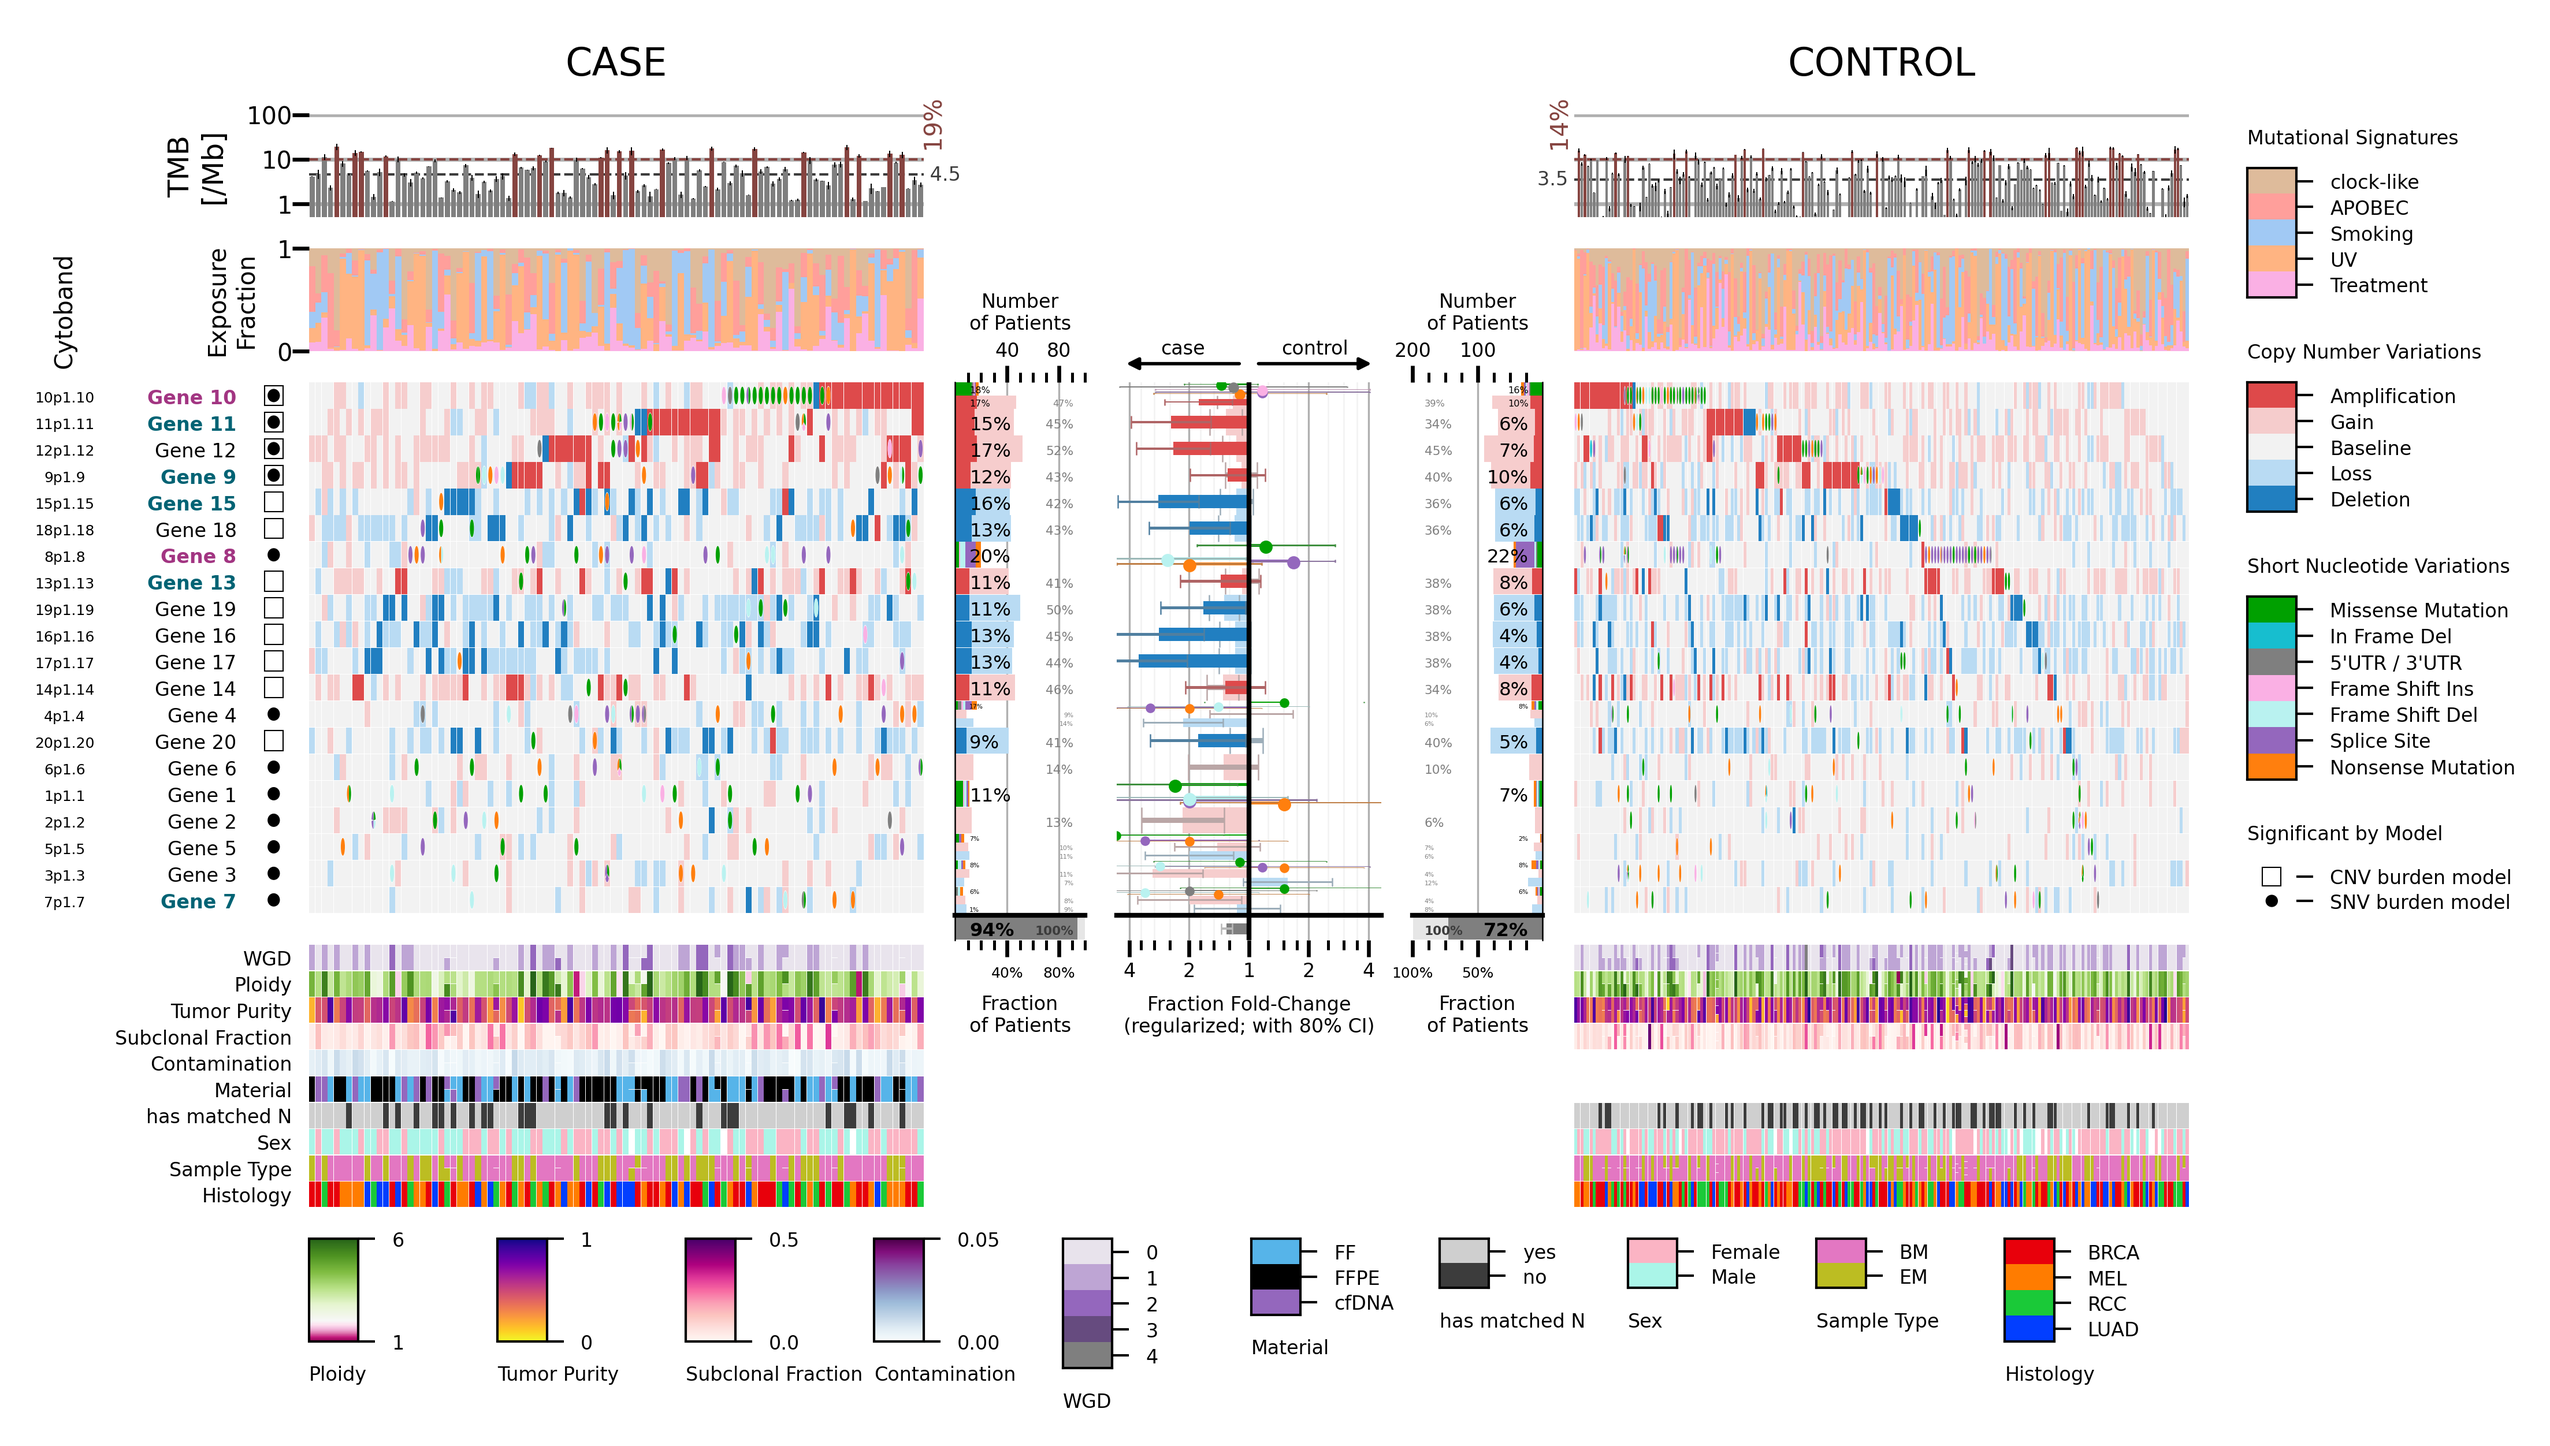
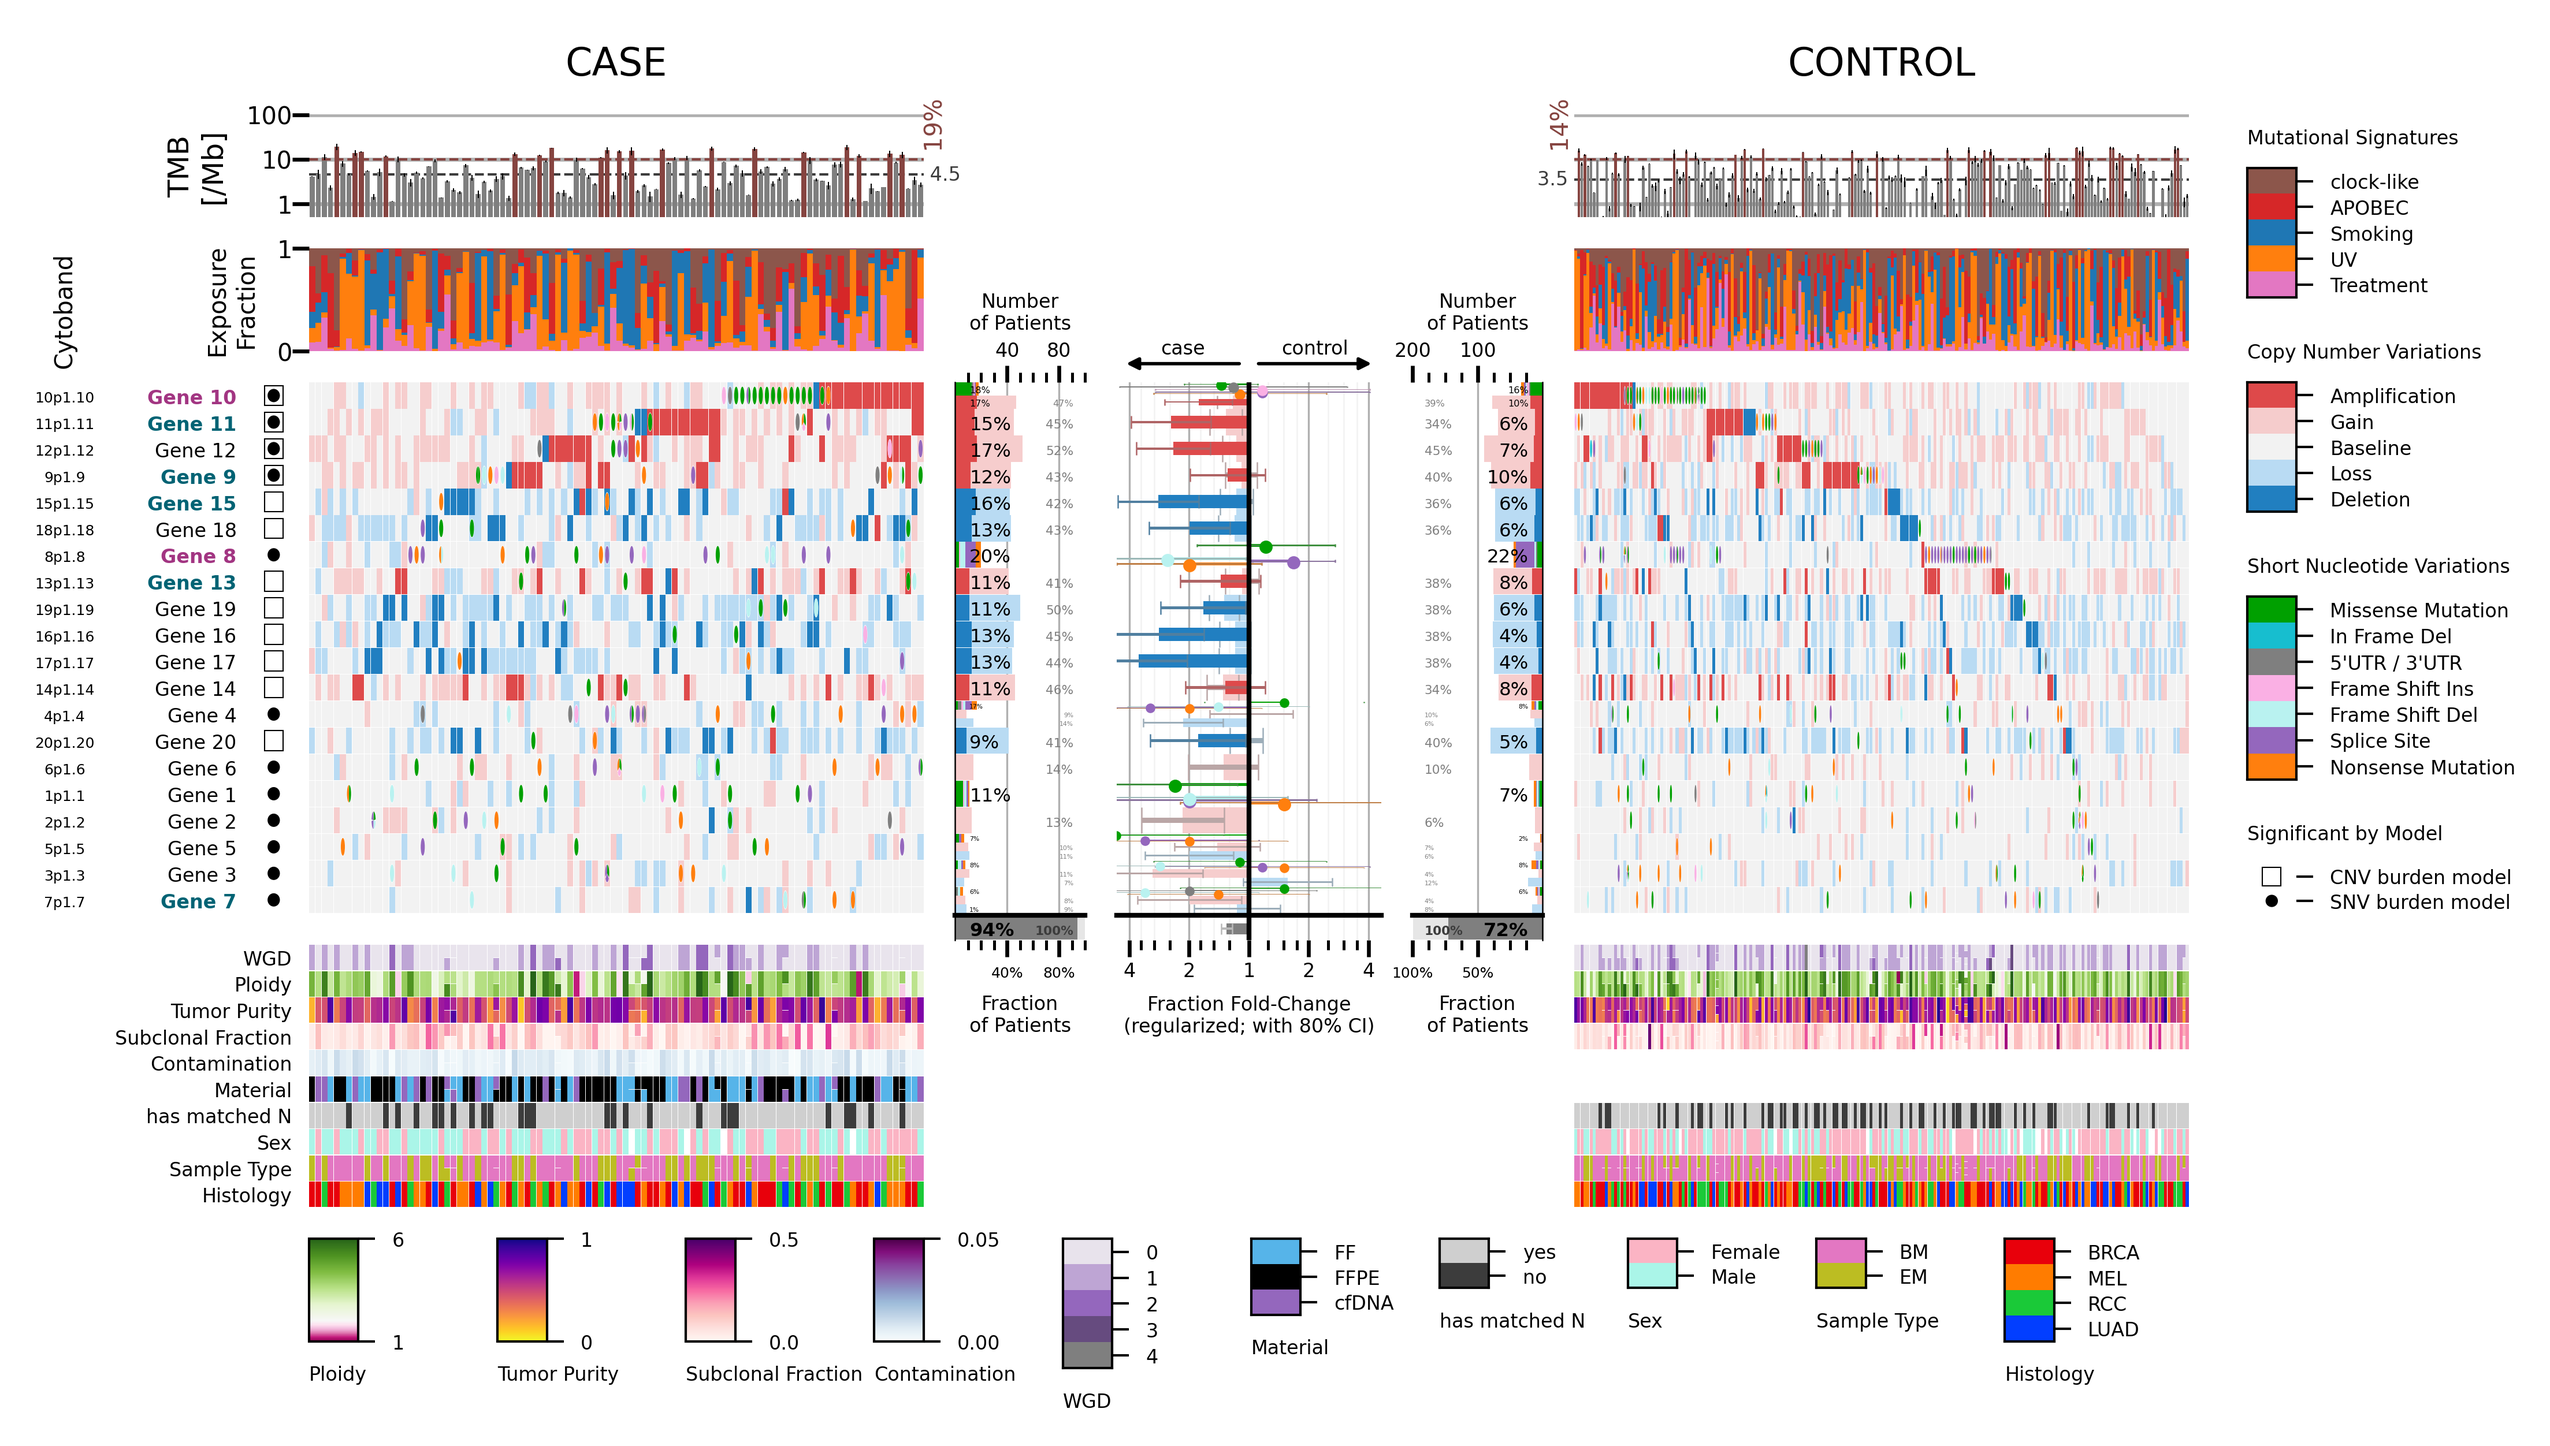
add pathway set colors to palette; adjust mutational signature colors

Changed region(s): [[0.5897, 0.0935, 0.9001, 0.2492], [0.1242, 0.1558, 0.3725, 0.2492]]

diff --git a/comutplotlib/palette.py b/comutplotlib/palette.py
@@ -364,6 +364,28 @@ class Palette(UserDict):
                 "WGS": self.lightblue,
                 "Panel": self.lightyellow,
                 "ULP": self.lightgrey,
+            } | {
+                "generic": self.lightgrey,
+                "general signaling": self.grey,
+                "cell cycle": self.green,
+                "development-differentiation": self.lightgreen,
+                "ECM-microenvironment": self.red,
+                "cytoskleton motility": self.lightred,
+                "trafficking": self.lightyellow,
+                "immune": self.blue,
+                "mito-ion-redox-stress": self.lightcyan,
+                "muscle": self.lightbrown,
+                "metabolism": self.brown,
+
+                "neural": self.pink,
+                "adhesion junctions": self.lightviolet,
+                "transcription": self.mix(self.cyan, self.grey),
+                "DNA replication repair": self.cyan,
+                "apoptosis": self.black,
+                "chromatin": self.lightblue,
+                "PI3K signaling": self.orange,
+                "MAPK signaling": self.yellow,
+                "TGFB signaling": self.violet,
             }
         )
 
@@ -506,15 +528,15 @@ class Palette(UserDict):
             "Unknown": []
         }
         mutsigset_palette = {
-            "clock-like": self.lightbrown,
-            "APOBEC": self.lightred,
-            "MMR": self.lightgreen,
-            "PolE/D/H": self.lightcyan,
-            "Other": self.lightviolet,
-            "UV": self.lightorange,
-            "Smoking": self.lightblue,
-            "Treatment": self.lightpink,
-            "Error": self.lightgrey
+            "clock-like": self.brown,
+            "APOBEC": self.red,
+            "MMR": self.green,
+            "PolE/D/H": self.cyan,
+            "Other": self.violet,
+            "UV": self.orange,
+            "Smoking": self.blue,
+            "Treatment": self.pink,
+            "Error": self.grey
         }
         signature_colors = {color: signature_sets[key] for key, color in mutsigset_palette.items()}
         for color, signatures in signature_colors.items():
